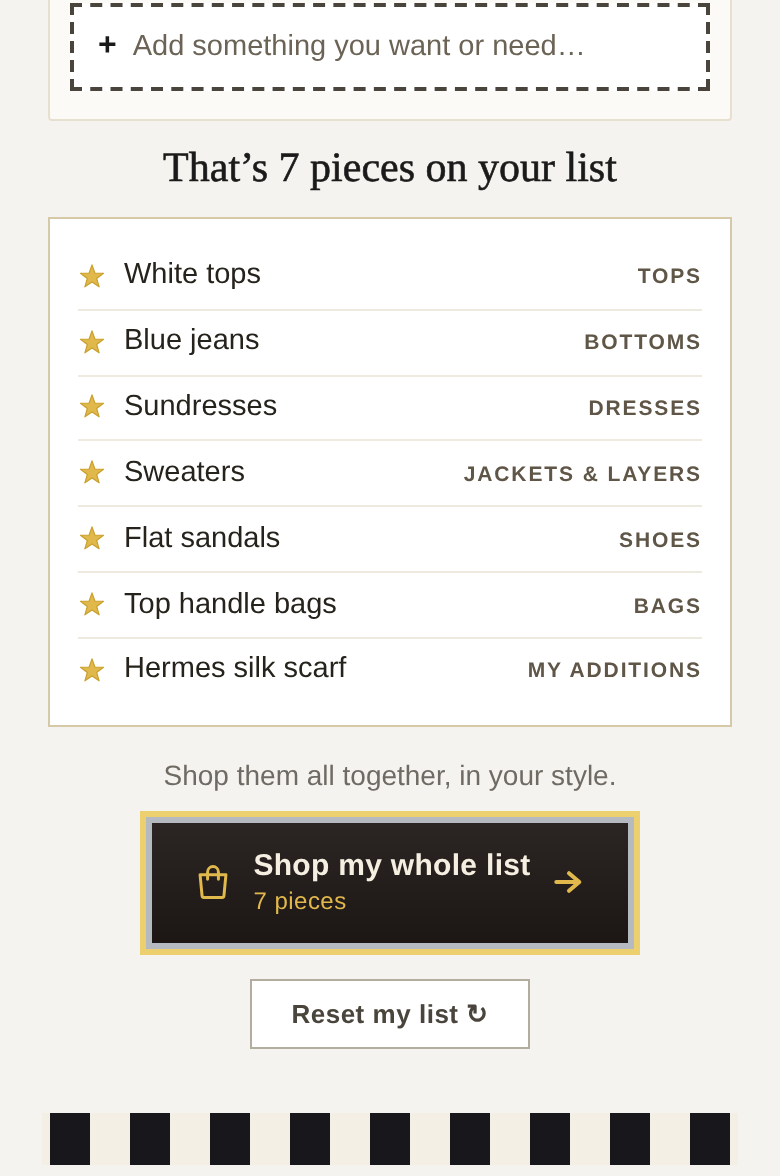
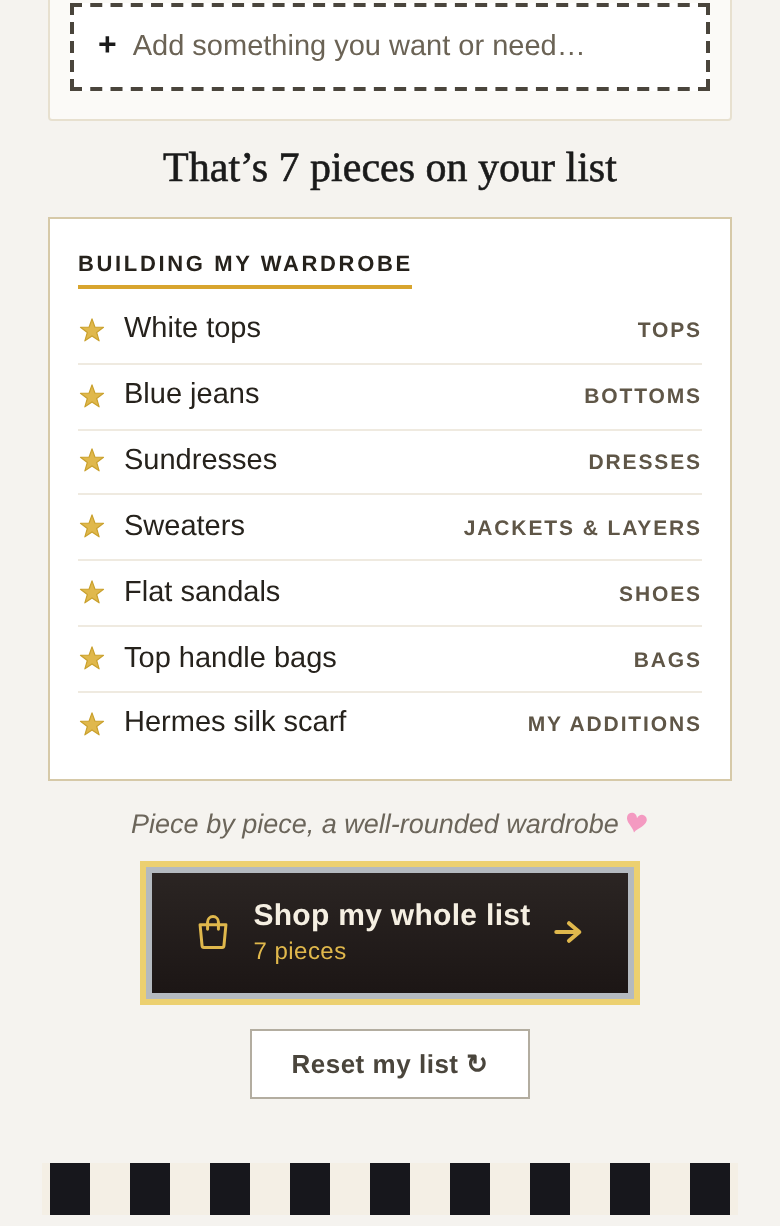
The clean list gets its title and Catherine's line (her picks B + C)
BUILDING MY WARDROBE heads the summary card, wearing the same gold
underline bar as the category headers. "Piece by piece, a well-rounded
wardrobe" with her tilted pink heart (.pinkheart SVG, never a glyph)
replaces the "Shop them all together, in your style." sub — her call, so
the zone between card and button still carries exactly one line.

Two deliberate test updates, not silences: wdrmylist asserts the old sub
is gone and the new title/line/heart render correctly; wdrworksheet's
one-line closing-sentence check now measures the Catherine line.

Claude-Session: https://claude.ai/code/session_01HxFYm3ny6YsSKVucpugyvK

Changed region(s): [[0.0615, 0.0306, 0.9231, 0.9184]]

diff --git a/scratchpad/wdrmylist.js b/scratchpad/wdrmylist.js
@@ -75,7 +75,9 @@ async function openPage(w, starred, custom) {
     };
   });
   ok(m.card, 'summary card renders inside the shopend block');
-  ok(m.kids.join(',').indexOf('wse-lead,wdr-mylist,wse-sub') === 0, `sits between lead and sub (${m.kids.join(' > ')})`);
+  // Her call 2026-08-12: the Catherine line REPLACED the "Shop them all
+  // together" sub — deliberate test change, not a silence.
+  ok(m.kids.join(',') === 'wse-lead,wdr-mylist,wml-cath,wdr-shopwrap', `lead > card > Catherine line > button, no sub (${m.kids.join(' > ')})`);
   ok(m.names.length === 7, `7 rows: 6 checklist + 1 starred custom (${m.names.length})`);
   ok(m.names[m.names.length - 1].indexOf('Silk scarf') >= 0, 'custom addition rides last');
   ok(m.cats[m.cats.length - 1] === 'My Additions', `custom row labelled My Additions (${m.cats[m.cats.length - 1]})`);
@@ -114,6 +116,16 @@ for (const w of [390, 360, 320]) {
     card.scrollIntoView({ block: 'center' });
     const cr = card.getBoundingClientRect();
     const star = card.querySelector('.wml-row svg').getBoundingClientRect();
+    const h = card.querySelector('.wml-h');
+    const hS = h ? getComputedStyle(h) : null;
+    const hr = h ? h.getBoundingClientRect() : null;
+    const cath = document.querySelector('#wdrShopEnd .wml-cath');
+    const cathS = cath ? getComputedStyle(cath) : null;
+    const heart = cath ? cath.querySelector('svg.pinkheart') : null;
+    const heartS = heart ? getComputedStyle(heart) : null;
+    let cathLines = null;
+    if (cath) { const rg = document.createRange(); rg.selectNodeContents(cath);
+      cathLines = new Set([...rg.getClientRects()].map(x => Math.round(x.top))).size; }
     let outside = 0, wraps = 0;
     card.querySelectorAll('.wml-row').forEach(r => {
       const rr = r.getBoundingClientRect();
@@ -130,9 +142,32 @@ for (const w of [390, 360, 320]) {
       outside, wraps, rows: card.querySelectorAll('.wml-row').length,
       over: document.documentElement.scrollWidth > window.innerWidth,
       nCol: nS.color, cCol: cS.color, cSize: parseFloat(cS.fontSize),
+      hText: h ? h.textContent : null,
+      hBar: hS ? hS.borderBottomWidth + ' ' + hS.borderBottomColor : null,
+      hHugs: h ? hr.width < cr.width * 0.8 : null,
+      subGone: !document.querySelector('#wdrShopEnd .wse-sub'),
+      cathText: cath ? cath.textContent : null,
+      cathItalic: cathS ? cathS.fontStyle : null,
+      cathCol: cathS ? cathS.color : null,
+      cathLines,
+      heartFill: heartS ? heartS.fill : null,
+      heartTilt: heartS ? heartS.transform : null,
+      heartW: heart ? heart.getBoundingClientRect().width : 0,
     };
   });
   ok(Math.abs(m.starW - 14) < 0.5 && Math.abs(m.starH - 14) < 0.5, `star is really 14px (${m.starW}x${m.starH}) — dimension asserted`);
+  ok(m.hText === 'Building my wardrobe', `card title present (${m.hText})`);
+  ok(/^2px rgb\(216, 165, 46\)/.test(m.hBar), `title wears the category-header gold bar (${m.hBar})`);
+  ok(m.hHugs, 'the bar hugs the words (inline-block), not the card width');
+  ok(m.subGone, 'the old "Shop them all together" sub is gone (her call, replaced)');
+  ok(/^Piece by piece, a well-rounded wardrobe/.test(m.cathText || ''), `Catherine line present (${m.cathText})`);
+  ok(m.cathItalic === 'italic', 'Catherine line is italic (her whisper voice)');
+  const heartFill = (m.heartFill.match(/\d+/g) || []).map(Number);
+  ok(heartFill.join() === '244,154,193', `heart is her signature pink (${m.heartFill})`);
+  ok(m.heartTilt !== 'none', `heart is tilted (${m.heartTilt})`);
+  ok(Math.abs(m.heartW - 12) < 3, `heart is really painted at ~12px (${m.heartW.toFixed(1)}) — dimension asserted`);
+  console.log(`  info: Catherine line holds ${m.cathLines} line(s)`);
+  ok(ratio((m.cathCol.match(/\d+/g)).map(Number), [251, 250, 247]) >= 4.5, `Catherine line AA on the paper (${ratio((m.cathCol.match(/\d+/g)).map(Number), [251, 250, 247]).toFixed(2)}:1)`);
   ok(m.outside === 0, 'no row escapes the card');
   ok(!m.over, 'no sideways page scroll');
   console.log(`  info: ${m.rows} rows, ${m.wraps} wrapped name(s)`);

diff --git a/index.html b/index.html
@@ -412,14 +412,22 @@ html.edit-velvet,html.edit-velvet body{background:#0E7F8C}
    she built before offering the same action, rather than repeating the button. */
 #s-wardrobe .wdr-shopend{margin:10px 0 4px;text-align:center}
 #s-wardrobe .wdr-shopend .wse-lead{font:400 21px/1.25 'DM Serif Display',Georgia,serif;color:#1a1a1a;-webkit-text-stroke:.3px #1a1a1a;margin-bottom:5px}
-/* Explicit two-line break (Cath's call), so the max-width must be wide enough
-   that neither line re-wraps on its own. */
-#s-wardrobe .wdr-shopend .wse-sub{font:500 14px/1.45 'Jost',sans-serif;color:#6f6a63;margin:0 auto 14px;max-width:300px}
+/* The "Shop them all together" sub is GONE (her call, 2026-08-12) — the
+   Catherine line below the clean list replaced it, so the zone between the
+   card and the marquee button carries exactly one line. Don't re-add a sub. */
 /* Her clean list: the starred pieces written out together under the lead, the
    way a stylist copies the marked items off a worksheet onto one page (Cath's
    pick "A", 2026-08-12). Left-aligned inside the centred block on purpose —
    it reads as a written list, not a caption. */
 #s-wardrobe .wdr-mylist{border:1px solid #D6C9A8;background:#fff;margin:12px 0 14px;padding:13px 14px 11px;text-align:left}
+/* The card's title finishes her worksheet metaphor: the same gold underline
+   bar the category headers (and the Menu's group labels) wear, so the clean
+   list reads as the worksheet's own closing section. */
+#s-wardrobe .wml-h{font:700 11px/1 'Jost',sans-serif;letter-spacing:.12em;text-transform:uppercase;color:#26221c;display:inline-block;padding-bottom:4px;border-bottom:2px solid #D8A52E;margin:1px 0 5px}
+/* Catherine's line, replacing the old sub — pink tilted heart = her speaking,
+   per the mark system. One line between the card and the button. */
+#s-wardrobe .wml-cath{font:italic 500 13.5px/1.5 'Jost',sans-serif;color:#6b655a;margin:-2px auto 14px;max-width:300px;text-align:center}
+#s-wardrobe .wml-cath .pinkheart{width:12px;height:12px;margin-left:3px;vertical-align:-1.5px}
 #s-wardrobe .wml-row{display:flex;align-items:baseline;gap:9px;padding:6.5px 0;border-bottom:1px solid #EFEAE0}
 #s-wardrobe .wml-row:last-child{border-bottom:none}
 #s-wardrobe .wml-row svg{flex:none;width:14px;height:14px;align-self:center}
@@ -6860,8 +6868,8 @@ function _wdrRenderShopEnd(n){
     }).join('');
     html+='<div class="wdr-shopend">'
       +'<div class="wse-lead">That&rsquo;s '+n+' piece'+(n>1?'s':'')+' on your list</div>'
-      +'<div class="wdr-mylist">'+listHtml+'</div>'
-      +'<div class="wse-sub">Shop them all together, in your style.</div>'
+      +'<div class="wdr-mylist"><div class="wml-h">Building my wardrobe</div>'+listHtml+'</div>'
+      +'<div class="wml-cath">Piece by piece, a well-rounded wardrobe<svg class="pinkheart" viewBox="0 0 24 24" aria-hidden="true"><path d="M12 21.6 C10.7 18.9 8.2 17 5.9 14.7 C3.6 12.4 2 10.4 2 7.7 C2 4.8 4.2 2.7 7 2.7 C9.5 2.7 11.3 4.6 12 7.1 C12.7 4.6 14.5 2.7 17 2.7 C19.8 2.7 22 4.8 22 7.7 C22 10.4 20.4 12.4 18.1 14.7 C15.8 17 13.3 18.9 12 21.6 Z"/></svg></div>'
       +'<div class="wdr-shopwrap">'+_wdrShopBtn(n)+'</div></div>';
   }
   // Reset sits below the shop CTA, so the list card can end cleanly on the

diff --git a/scratchpad/wdrworksheet.js b/scratchpad/wdrworksheet.js
@@ -43,10 +43,13 @@ for (const w of [390, 375, 360, 320]) {
       const f = v => { v /= 255; return v <= 0.03928 ? v / 12.92 : ((v + 0.055) / 1.055) ** 2.4; };
       return 0.2126 * f(r) + 0.7152 * f(g) + 0.0722 * f(b); };
     const cr = (a, b) => { const [x, y] = [lum(a), lum(b)].sort((p, q) => q - p); return (x + 0.05) / (y + 0.05); };
-    const sub = document.querySelector('#s-wardrobe .wse-sub');
+    // 2026-08-12, her call: the "Shop them all together" sub was REPLACED by
+    // the Catherine line (.wml-cath) when the clean-list summary landed.
+    const sub = document.querySelector('#s-wardrobe .wml-cath');
     let subLines = null;
     if (sub) { const rg = document.createRange(); rg.selectNodeContents(sub);
       subLines = new Set([...rg.getClientRects()].map(x => Math.round(x.top))).size; }
+    const oldSubGone = !document.querySelector('#s-wardrobe .wse-sub');
     const starred = document.querySelector('#s-wardrobe .wdr-item.want');
     const names = [...document.querySelectorAll('#s-wardrobe .wdr-name')].map(e => {
       const rg = document.createRange(); rg.selectNodeContents(e);
@@ -63,7 +66,7 @@ for (const w of [390, 375, 360, 320]) {
       divider: getComputedStyle(row).borderBottomColor,
       wraps: names.filter(n => n > 1).length, rows: names.length,
       lblSize: parseFloat(lblCs.fontSize), lblContrast: +cr(lblCs.color, cs.backgroundColor).toFixed(2),
-      subLines, subHasBr: !!(sub && sub.querySelector('br')),
+      subLines, subHasBr: !!(sub && sub.querySelector('br')), oldSubGone,
       docW: document.documentElement.scrollWidth, vw: innerWidth, cats: document.querySelectorAll('#s-wardrobe .wdr-cathead').length
     };
   });
@@ -95,9 +98,11 @@ for (const w of [390, 375, 360, 320]) {
   // the two controls do, so they must stay readable. Don't re-quieten them.
   ok(m.lblSize >= 10, `the column labels are readable at ${m.lblSize}px (were 8.5)`);
   ok(m.lblContrast >= 4.5, `and clear AA on the real paper (${m.lblContrast}:1, was 3.79)`);
-  // her ask: the closing line reads as one sentence, not two
-  ok(m.subLines === 1, `"Shop them all together, in your style." holds one line (${m.subLines})`);
-  ok(!m.subHasBr, 'the hardcoded <br> is gone, so it can never re-split');
+  // her ask: the closing line reads as one sentence, not two. The line is the
+  // Catherine line now (her call, 2026-08-12) — same claim, new sentence.
+  ok(m.subLines === 1, `"Piece by piece, a well-rounded wardrobe" holds one line (${m.subLines})`);
+  ok(!m.subHasBr, 'no hardcoded <br>, so it can never re-split');
+  ok(m.oldSubGone, 'the old "Shop them all together" sub stays retired (replaced, not doubled)');
   ok(m.docW <= m.vw, `no sideways scroll (${m.docW} vs ${m.vw})`);
   ok(!errs.length, 'zero JS errors');
 
